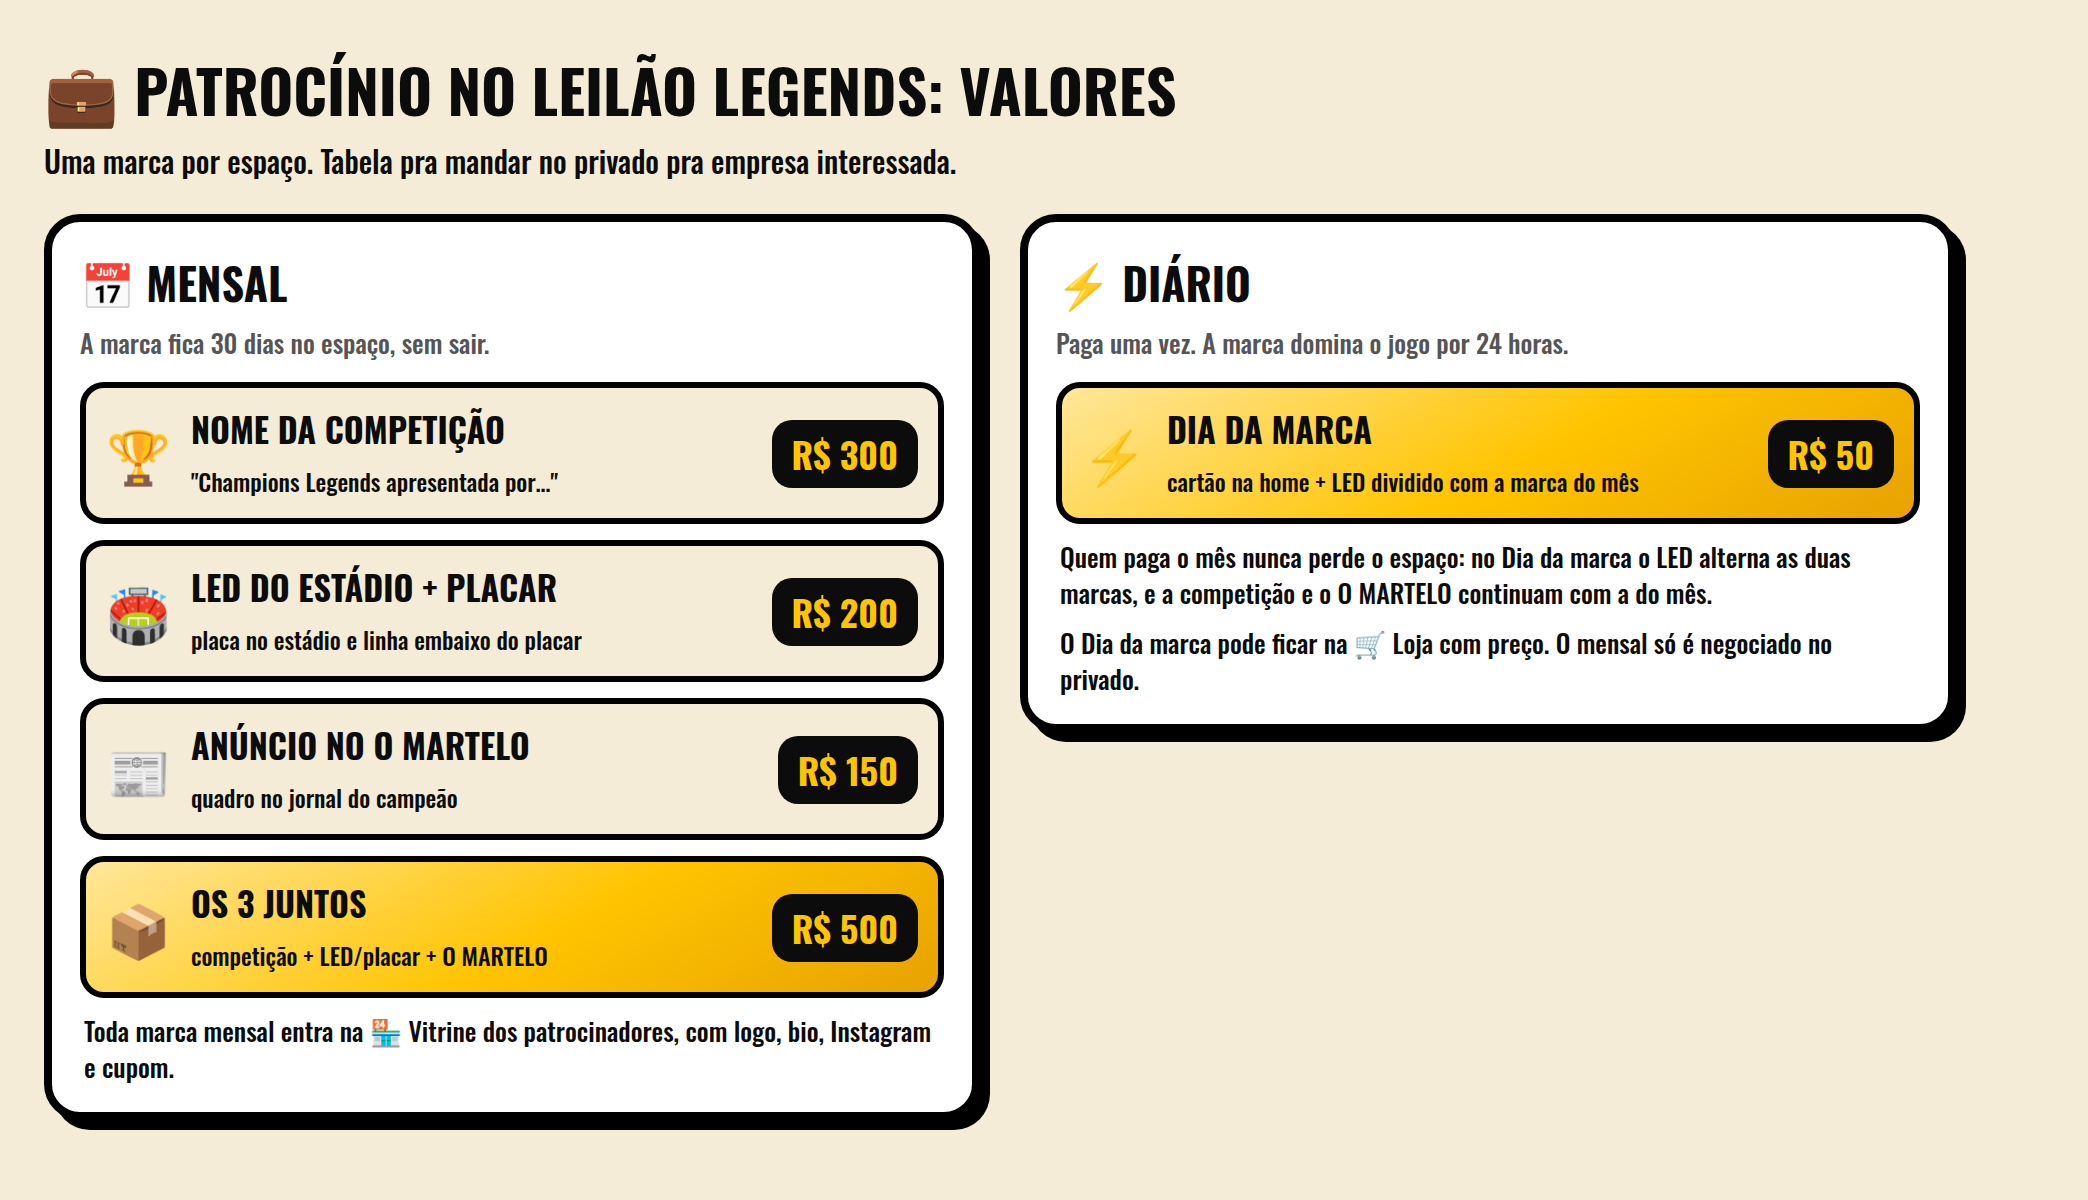
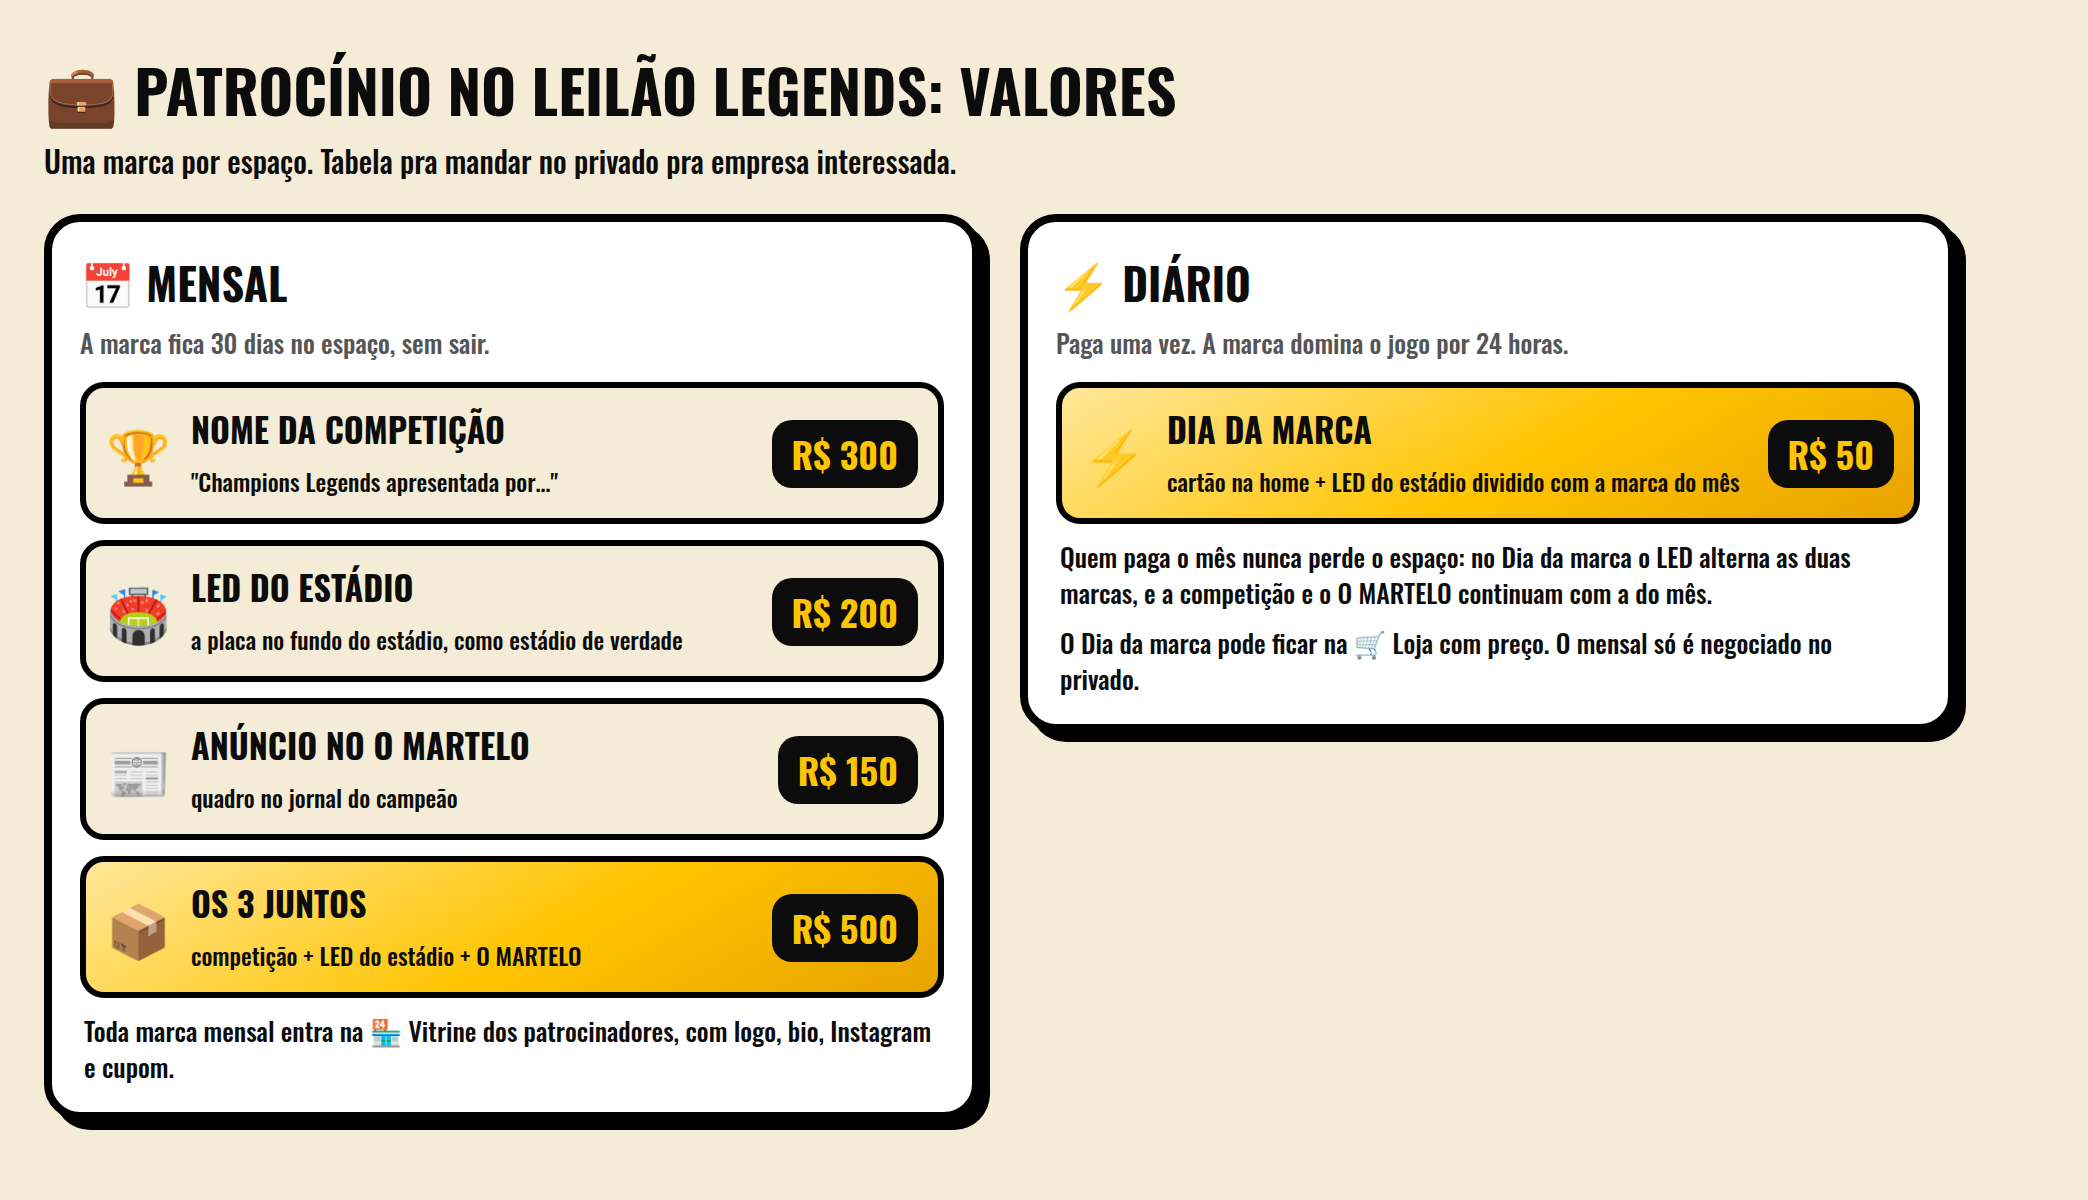
Valores do patrocínio: LED do estádio sem a linha do placar (mesmos preços)
Claude-Session: https://claude.ai/code/session_018Ap1zPCMVL9XeZJN3u93ZA

Changed region(s): [[0.0934, 0.4625, 0.3424, 0.555], [0.6537, 0.37, 0.8405, 0.4317], [0.1557, 0.7708, 0.2802, 0.8017]]

diff --git a/docs/pendencias.md b/docs/pendencias.md
@@ -1,7 +1,9 @@
 ## 🚗 VADICO VEÍCULOS: "Champions Legends apresentada por" (16/10) — ✅ NO AR só nas contas do Diego
 - Diego: *"publique agora da Vadico Veículos pra eu ver como fica… deixe a Champions Legends apresentada por Vadico Veículos"*.
 - `src/escalacao/patrocinio.ts` (`POR_COMPETICAO`, uma marca por competição) + selo no `CompetitionStage` (online-match-visual.tsx).
-- Liberar pra todos: `PATROCINIO_GERAL = true`. Falta: logo oficial (hoje é 🚗 + nome), LED/placar, O MARTELO, Vitrine.
+- Liberar pra todos: `PATROCINIO_GERAL = true`. Falta: logo oficial (hoje é 🚗 + nome), LED do estádio, O MARTELO, Vitrine.
+- 🚫 **"Placar oferecido por" NÃO** (16/10, minha opinião aceita como pergunta dele): o placar fica limpo; o LED fica no FUNDO do
+  estádio, parado ou bem devagar. Valores mantidos: competição 300 · LED do estádio 200 · O MARTELO 150 · os 3 juntos 500 · Dia 50.
 - Combinado em conversa (16/10): vários mensais convivem — 1 marca por competição (até ~6), LED gira até 4 marcas, O MARTELO
   reveza por edição, Vitrine mostra todas. Combo proposto: competição + LED R$ 450 (esperando OK).
 
